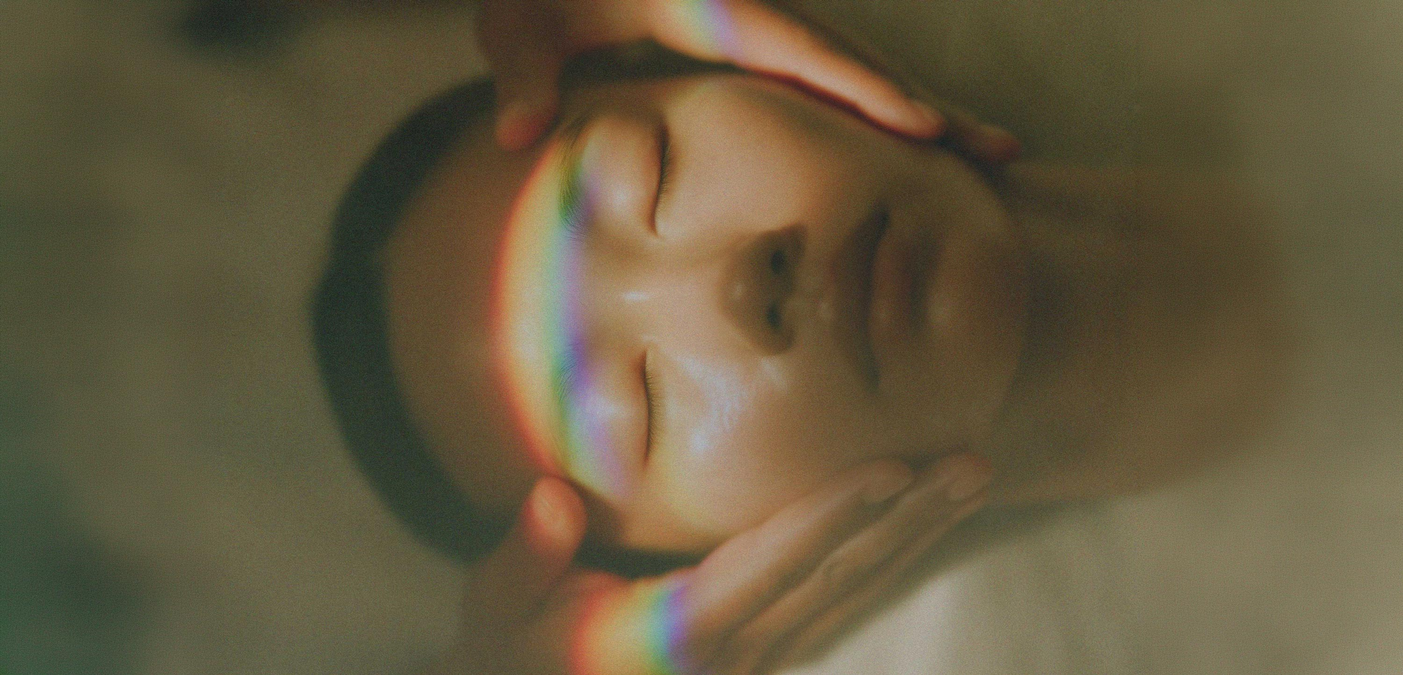
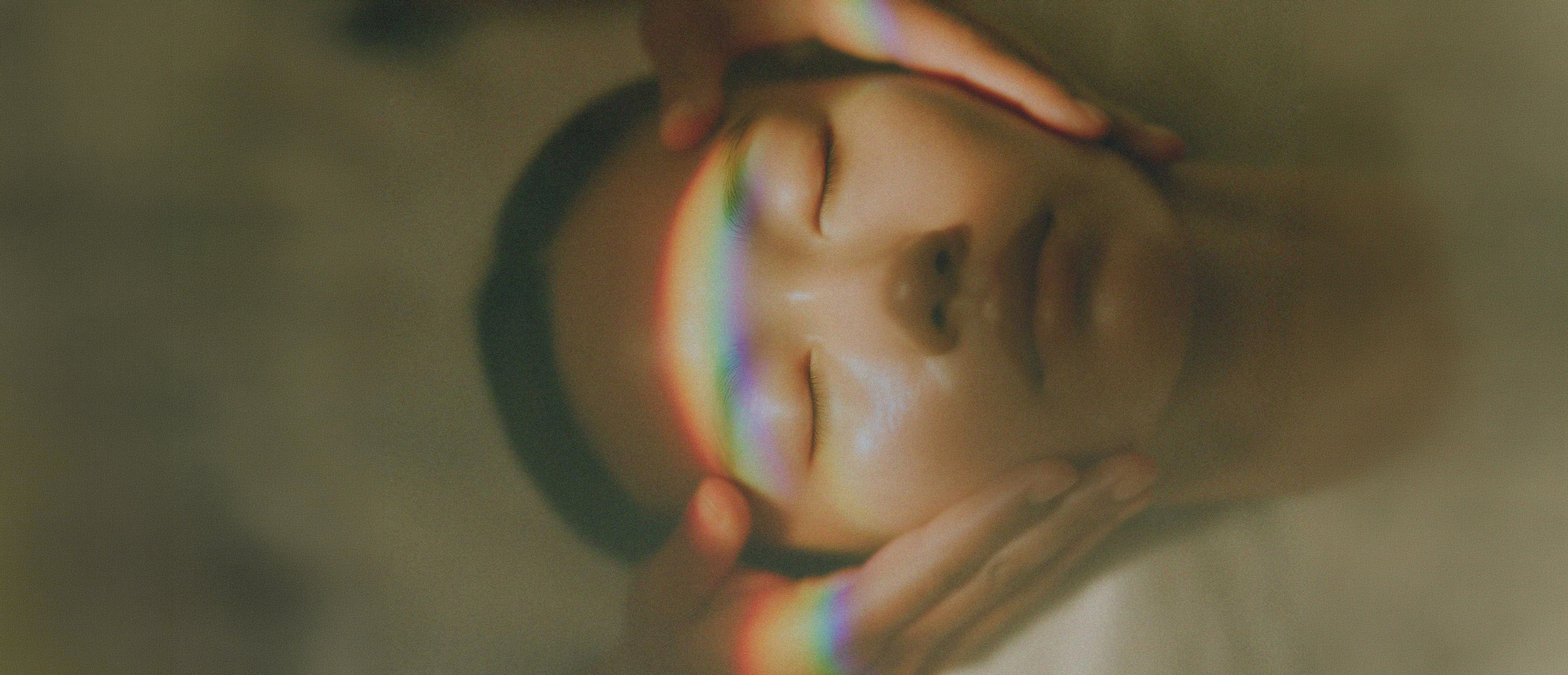
swap brand marks and identifiers to Guides' Space
Header takes the sage mark, footer and the holding-page hero take the
cream mark. Dimensions carry the PNG's real 7.12:1 aspect (7689x1080)
instead of the old SVG's ~4.9:1, so nothing is stretched; next/image
serves a 2x srcset from the large source.

Favicon becomes the G'S monogram via the App Router icon.png convention,
plus a 180px apple-icon generated from the same source. Six orphaned
brand assets removed after confirming zero references.

package.json name is now guidesspace (npm names cannot carry an
apostrophe or a space).

NOT changed here, deliberately: /sessions.svg is the word SESSIONS as
artwork under a practitioner's name ("<name>'s SESSIONS"), a product
noun rather than a brand mark. Swapping it would read "<name>'s
GUIDES'SPACE".

diff --git a/src/components/site-header.tsx b/src/components/site-header.tsx
@@ -46,11 +46,15 @@ export default async function SiteHeader({ centerLabel }: { centerLabel?: string
   return (
     <header className="flex items-center justify-between gap-2 bg-bg px-3 py-4 sm:px-6 sm:py-5">
       <div className="flex min-w-0 items-center gap-2 sm:gap-4">
-        <Link href="/" aria-label="sessions.guide home" className="shrink-0">
+        <Link href="/" aria-label="Guides' Space home" className="shrink-0">
+          {/* Sage mark: dark lettering, for the light header field. Dimensions
+              carry the PNG's real 7.12:1 aspect (7689x1080) rather than the old
+              SVG's 4.93:1, so it is not stretched; next/image serves a 2x
+              srcset from the large source, so it stays crisp. */}
           <Image
-            src="/sessions-logo.svg"
-            alt="sessions.guide"
-            width={138}
+            src="/guidesspace-logo-sage.png"
+            alt="Guides' Space"
+            width={199}
             height={28}
             priority
           />

diff --git a/src/app/page.tsx b/src/app/page.tsx
@@ -81,11 +81,14 @@ export default function LandingPage() {
           {/* Legibility wash over the photograph. */}
           <div className="absolute inset-0 bg-black/25" />
 
-          {/* Full-width wordmark, flush to the very top: no padding, no margin. */}
+          {/* Full-width wordmark, flush to the very top: no padding, no margin.
+              Cream mark over the photograph. Raw <img> rather than next/image
+              because it spans the full viewport at its natural aspect; the
+              7689px source is far wider than any viewport, so it stays crisp. */}
           {/* eslint-disable-next-line @next/next/no-img-element */}
           <img
-            src="/sessionsguide-logo-light.svg"
-            alt="Sessions Guide"
+            src="/guidesspace-logo-cream.png"
+            alt="Guides' Space"
             className="relative z-[1] block w-full"
           />
 

diff --git a/src/components/site-footer.tsx b/src/components/site-footer.tsx
@@ -15,10 +15,11 @@ export default function SiteFooter() {
       <div className="mx-auto grid w-full max-w-[1200px] grid-cols-1 gap-12 px-6 py-20 sm:grid-cols-3 sm:px-10">
         {/* Column one — mark + platform story */}
         <div className="flex flex-col items-start gap-5">
+          {/* Cream mark: light lettering, for the olive footer field. */}
           <Image
-            src="/sessions-logo-light.svg"
-            alt="Sessions Guide"
-            width={150}
+            src="/guidesspace-logo-cream.png"
+            alt="Guides' Space"
+            width={221}
             height={31}
             className="mb-2"
           />
